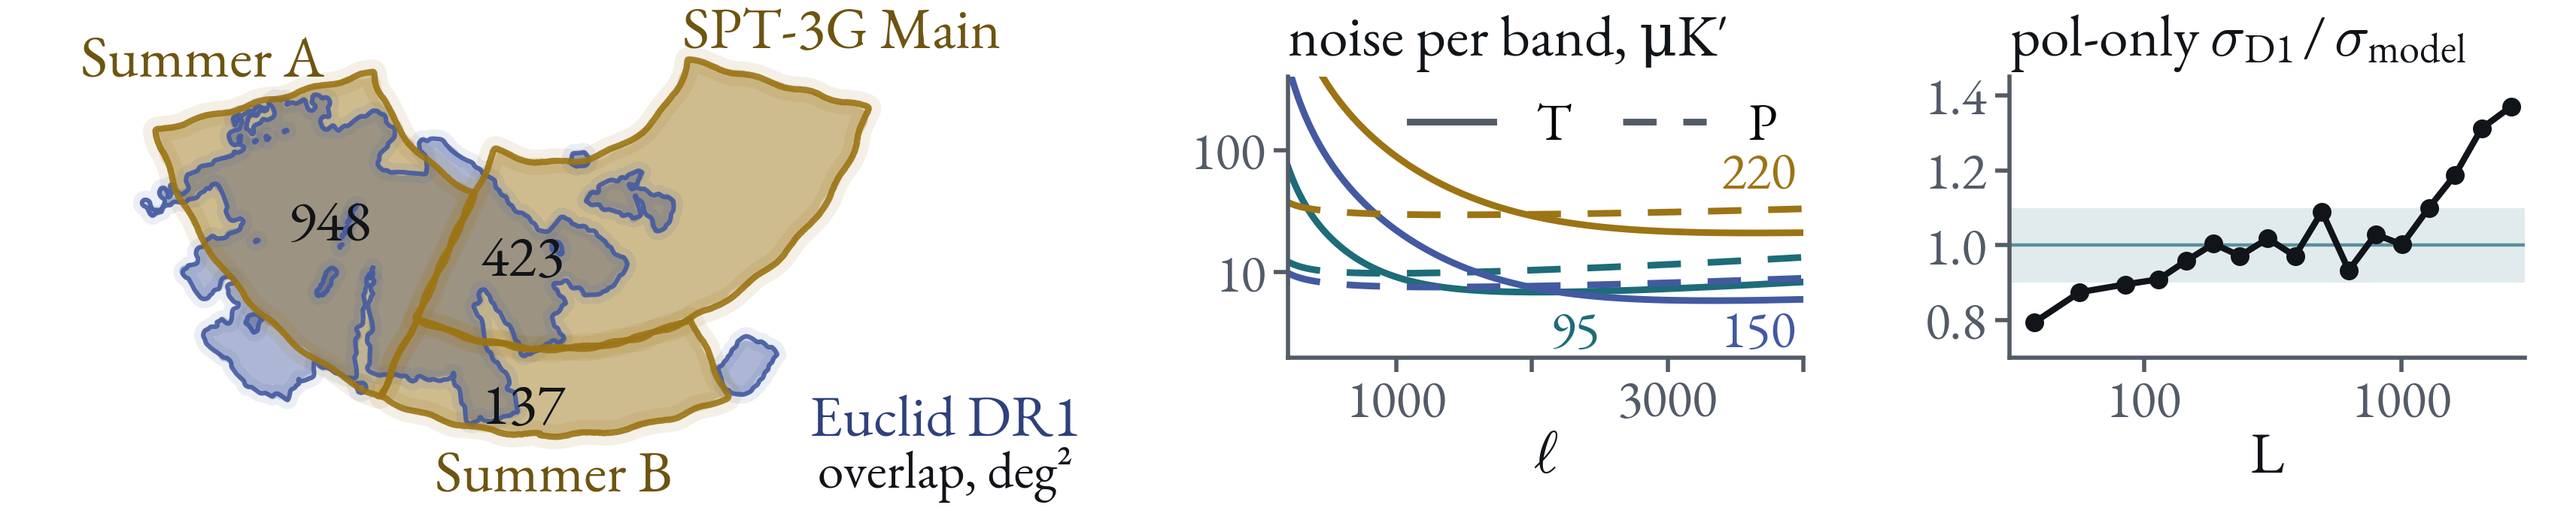
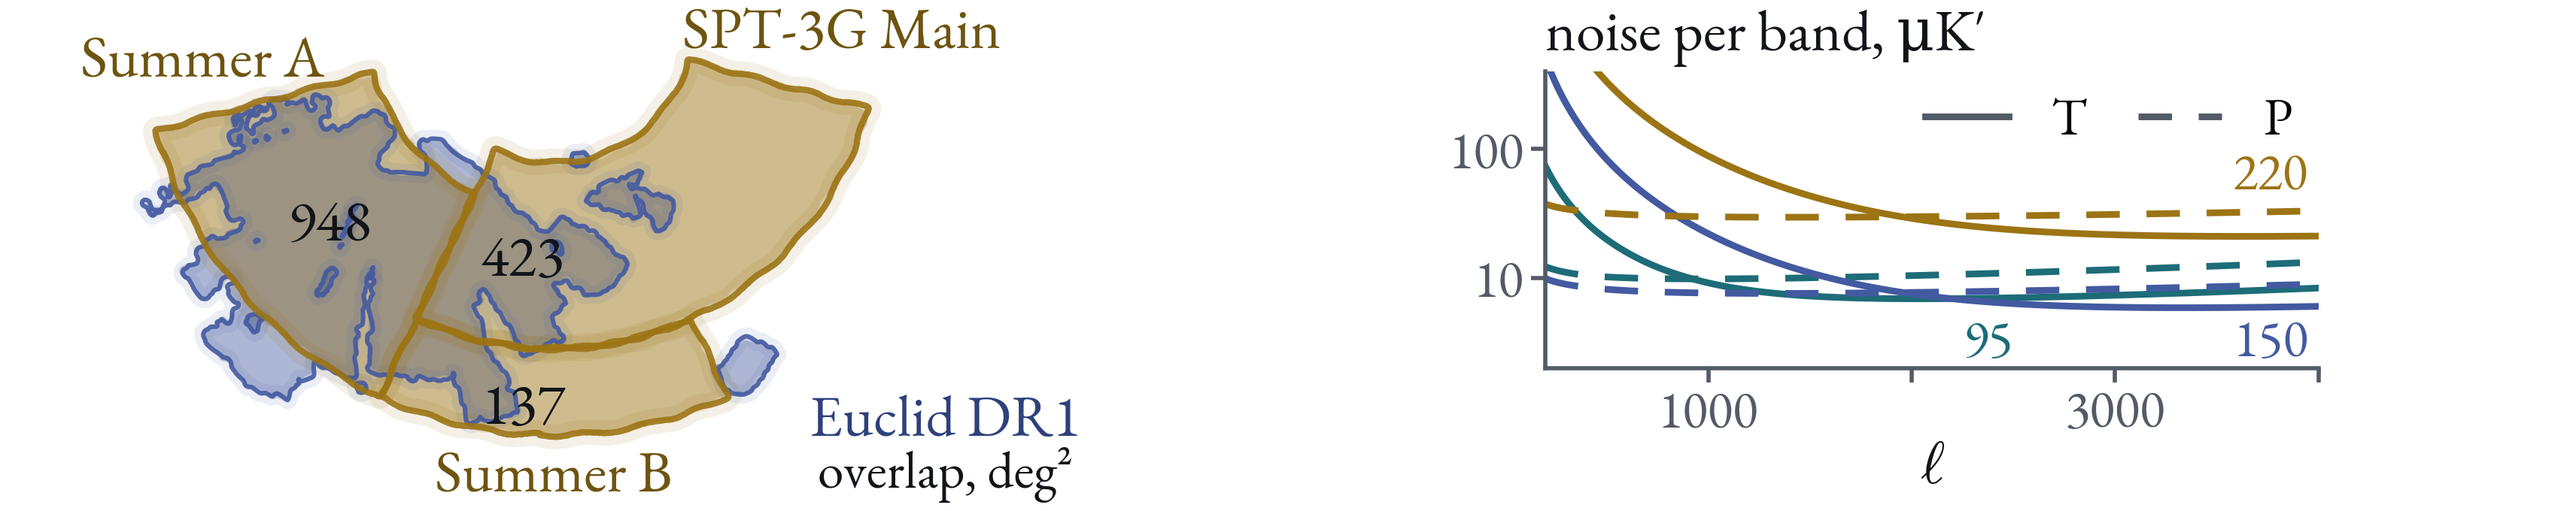
Paris SWG deck: covariance part is what the SPT analysis needs, as data products
Claude-Session: https://claude.ai/code/session_01JK7o9DgWZgiWoB9jhm8TMM

diff --git a/2611_Paris_SWG/slides/cov-spt-public.html b/2611_Paris_SWG/slides/cov-spt-public.html
@@ -1,30 +1,31 @@
 <section data-layout="figure-text" data-stack>
-  <h2>SPT-like mocks can start from public inputs</h2>
+  <h2>SPT-like mocks: inputs from public sources</h2>
   <figure>
-    <img src="images/paris26_cov_spt_public_sketch.png" alt="Sketch of the SPT-3G Main, Summer A and Summer B footprints over the Euclid DR1 footprint with overlap areas, the per-band noise curves, and the ratio of public D1 lensing errors to the model's">
+    <img src="images/paris26_cov_spt_public_sketch.png" alt="The SPT-3G Main, Summer A and Summer B footprints over the Euclid DR1 footprint with overlap areas in square degrees, and the noise curve of each band in temperature and polarization">
     <span class="source">Leonardo: /leonardo_work/EUHPC_E07_074/cmbx/inputs/spt/public_covariance_package (README.md)</span>
   </figure>
   <div class="text">
   <ul>
-    <li>Masks: SPT-3G Main, Summer A and B, $N_\mathrm{side} = 2048$</li>
-    <li>Noise per band, temperature and polarization, each entry cited</li>
-    <li>Public D1 release: survey masks, 500 noise maps per band</li>
-    <li>Check: pol-only $N_L^{\kappa\kappa}$ within 10 % of the public D1 errors</li>
+    <li>A generic quadratic estimator, run by the covariance team</li>
+    <li>Masks: SPT-3G Main, Summer A and B</li>
+    <li>Noise levels per band, temperature and polarization</li>
+    <li>Noise maps: 500 per band in the public D1 release</li>
+    <li>Unconstrained, so any number can be made</li>
   </ul>
   </div>
   <aside class="notes">
     <ul class="skim">
       <li><strong>What it is for</strong> — a generic quadratic-estimator κ reconstruction on simulated CMB with SPT-3G's footprint and noise, so that covariance mocks for the κ blocks can start before SPT's own reconstructions can be shared. Every number comes from a public paper or data release; nothing derives from internal SPT products.</li>
       <li><strong>Masks</strong> — RA/Dec boxes from the published field boundaries, HEALPix $N_\mathrm{side} = 2048$, RING, equatorial, binary and apodized. Overlap with the observed DR1 footprint: Main 423 deg², Summer A 948 deg², Summer B 137 deg²; Summer C has none and is left out.</li>
-      <li><strong>Noise</strong> — white level, atmospheric knee and slope, and beam per band (95, 150, 220 GHz), with beam-deconvolved noise curves and a model reconstruction noise. Summer polarization noise and Summer beams are proxies, labelled as such in the table.</li>
+      <li><strong>Noise</strong> — white level, atmospheric knee and slope, and beam per band (95, 150, 220 GHz), with beam-deconvolved noise curves. Summer polarization noise and Summer beams are proxies, labelled as such in the table.</li>
       <li><strong>Public D1 release</strong> — the SPT-3G D1 Main-field release has the survey pixel masks and 500 sign-flip noise realizations per band; for Main-field mocks these are better than the package's boxes and noise model.</li>
-      <li><strong>Check</strong> — a flat-sky quadratic estimator on the noise model reproduces the public D1 polarization-only lensing bandpower errors within 10 % for $150 &lt; L &lt; 1300$. The temperature-plus-polarization estimator also needs temperature foreground power (a Poisson term closes a gap of up to 2× at high $L$).</li>
+      <li><strong>Any number</strong> — these mocks are not conditioned on an experiment's own simulated reconstructions, so their number is not limited by how many simulations SPT has.</li>
     </ul>
     <details><summary>How this differs from constrained realizations</summary>
     <p>Constrained realizations on SPT's own lensing reconstructions of its simulations carry the real estimator, filtering and masks, and there are as many as SPT has simulations. The public route needs none of SPT's products and is not limited in number.</p>
     </details>
     <details><summary>The sketch</summary>
-    <p>Drawn from the package's own files by make_cov_figures.py in the deck directory, in a hand-drawn style. <strong>Left:</strong> the Main, Summer A and Summer B box masks (ochre) over the observed Euclid DR1 wide footprint (blue: the union of DR1_R1 and DR1_R2 MER VIS tiles, 2341 deg², not an analysis mask), in an equal-area view about the south celestial pole; outlines are lightly smoothed, and the numbers are each field's overlap in deg², recomputed from the same maps. <strong>Middle:</strong> the beam-deconvolved noise model of the D1 Main field per band, temperature solid and polarization dashed. <strong>Right:</strong> public D1 polarization-only lensing bandpower errors over the errors the noise model predicts; the band is ±10 %.</p>
+    <p>Drawn from the package's own files by make_cov_figures.py in the deck directory, in a hand-drawn style. <strong>Left:</strong> the Main, Summer A and Summer B box masks (ochre) over the observed Euclid DR1 wide footprint (blue: the union of DR1_R1 and DR1_R2 MER VIS tiles, 2341 deg², not an analysis mask), in an equal-area view about the south celestial pole; outlines are lightly smoothed, and the numbers are each field's overlap in deg², recomputed from the same maps. <strong>Right:</strong> the beam-deconvolved noise model of the D1 Main field per band, temperature solid and polarization dashed.</p>
     </details>
     <details><summary>Sources</summary>
     <p>SPT-3G D1 maps release (Quan et al. 2026, arXiv:2603.20163); Camphuis et al. 2025 (arXiv:2506.20707) for noise levels; SPT-3G D1 quadratic-estimator lensing (arXiv:2608.31136) and its public likelihood data; the Summer two-year temperature lensing paper (arXiv:2607.05784); Prabhu et al. 2024 (arXiv:2403.17925) for the noise knees.</p>

diff --git a/2611_Paris_SWG/slides/cov-spt-constrained.html b/2611_Paris_SWG/slides/cov-spt-constrained.html
@@ -1,0 +1,20 @@
+<section data-layout="points">
+  <h2>Constrained realizations on SPT's simulations</h2>
+  <ul>
+    <li>Inputs: the same footprints, and SPT's κ reconstructions of its simulations</li>
+    <li>SPT has 350–400 simulations, winter and summer fields</li>
+    <li>Sharing them waits on Euclid status for SPT's external collaborators</li>
+  </ul>
+  <p><strong class="accent">Output wanted:</strong> covariances for the κ crosses, calibrated the same way as the ACT and Planck ones</p>
+  <aside class="notes">
+    <ul class="skim">
+      <li><strong>What it is</strong> — mock Euclid fields conditioned on the κ of each SPT simulation, paired with SPT's own lensing reconstruction of that simulation, so the mocks carry SPT's real estimator, filtering, masks and reconstruction noise.</li>
+      <li><strong>Inputs</strong> — the footprints of the previous slide, and SPT's lensing reconstructions of its 350–400 simulations for the winter (Main) and summer fields.</li>
+      <li><strong>Status</strong> — SPT cannot share these products until its external collaborators have Euclid status; the request was circulated on 9 November 2026.</li>
+      <li><strong>Output</strong> — covariances for κ × shear and κ × positions with SPT-3G, calibrated in the same way as those built on the ACT and Planck simulations, where about 400 constrained realizations exist.</li>
+    </ul>
+    <details><summary>From the CMBX telecon of 5 November 2026</summary>
+    <p>About 400 realizations were judged too noisy to invert directly. The candidates raised there were shrinkage toward an analytic target (which lacks the reconstruction noise), a jackknife (biased even with delete-two, as found in DES), and a much larger set of own simulations with reconstruction run on each. JC-1's view at that telecon: the 6×2pt and covariance groups should run synthetic chains together.</p>
+    </details>
+  </aside>
+</section>

diff --git a/2611_Paris_SWG/slides/index.html b/2611_Paris_SWG/slides/index.html
@@ -2,13 +2,13 @@
   <h2>Index</h2>
   <table class="large">
     <tr><th>part</th><th>session</th><th>when</th></tr>
-    <tr><td><a href="#/covariance">Covariance needs</a></td><td>Simulations</td><td>Wed 18, 09:30</td></tr>
+    <tr><td><a href="#/covariance">SPT covariance</a></td><td>Simulations</td><td>Wed 18, 09:30</td></tr>
     <tr><td><a href="#/blinding">Blinding</a></td><td>Blinding (chair)</td><td>Wed 18, 11:30</td></tr>
     <tr><td><a href="#/cloe">CLOE vs dr1_cmbx</a></td><td>Likelihood</td><td>Wed 18, 14:00</td></tr>
   </table>
   <aside class="notes">
     <ul class="skim">
-      <li><strong>Covariance needs</strong> — what the CMBX 6×2pt analysis uses now, which covariance blocks it needs from whom, and the open choices. Asked for by Pauline Vielzeuf; placed here in the simulations session she chairs.</li>
+      <li><strong>SPT covariance</strong> — what the SPT × Euclid 6×2pt analysis needs from the covariance effort, as data products: inputs for SPT-like mocks, constrained realizations on SPT's simulations, and the output wanted. Asked for by Pauline Vielzeuf, for the simulations session she chairs.</li>
       <li><strong>Blinding</strong> — opening slides for the session Cail chairs: how each Euclid group blinds DR1, the size of the CMBX blind, whether to blind κκ, how to compare blinded vectors across groups, and the questions for the room.</li>
       <li><strong>CLOE vs dr1_cmbx</strong> — the same TR1 chains run with CLOE and with the dr1_cmbx exact likelihood: posteriors, bias against the mock truth, and cost. Asked for by Raphael Kou for the likelihood session.</li>
     </ul>

diff --git a/2611_Paris_SWG/slides/covariance.html b/2611_Paris_SWG/slides/covariance.html
@@ -1,9 +1,10 @@
 <section data-layout="section">
-  <h2>Covariance needs</h2>
-  <p>What CMBX uses now and what it needs from the simulations effort</p>
+  <h2>SPT covariance</h2>
+  <p>1. SPT-constrained mocks for accuracy<br>2. SPT-like mocks for as many samples as needed<br>3. The two combined, with control variates (CARPool-type)</p>
   <aside class="notes">
     <ul class="skim">
-      <li><strong>Scope</strong> — the covariance of the CMBX 6×2pt data vector (3×2pt plus κ × shear, κ × positions and κκ), for DR1.</li>
+      <li><strong>Scope</strong> — what the SPT × Euclid 6×2pt analysis needs from the covariance effort (Pauline Vielzeuf, Davide Luchina) for its κ blocks, as data products: what goes in and what should come out.</li>
+      <li><strong>Plan</strong> — constrained realizations on SPT's own lensing reconstructions carry the real estimator and noise but are limited to SPT's 350–400 simulations; SPT-like mocks with a generic quadratic estimator can be made in any number. The idea is to use the first for accuracy and the second for sample count, combining them with a control-variate (CARPool-type) estimator. A plan to discuss with the covariance team, not a settled method.</li>
       <li><strong>Timeline</strong> — the κκ likelihood and covariance design is to be decided by the end of November; everything running by the end of February; blinded data early April 2027 (CMBX telecons, 5 and 12 November 2026).</li>
     </ul>
   </aside>

diff --git a/2611_Paris_SWG/slides/title.html b/2611_Paris_SWG/slides/title.html
@@ -1,12 +1,12 @@
 <section data-layout="title">
-  <h1>Blinding, CLOE and covariance</h1>
+  <h1>SPT covariance, blinding and CLOE</h1>
   <p class="subtitle">Material for the CMBX SWG meeting</p>
   <p class="byline">Cail Daley</p>
   <p class="venue">Euclid CMBX SWG meeting, Paris</p>
   <p class="date">17–18 November 2026</p>
   <aside class="notes">
     <ul class="skim">
-      <li><strong>One deck, several slots</strong> — the blinding session (chair's opening), the CLOE vs dr1_cmbx comparison for the likelihood session, and what CMBX needs for covariances, for the simulations session. The next slide is the index.</li>
+      <li><strong>One deck, three slots</strong> — what the SPT × Euclid analysis needs for its covariance (simulations session), the opening of the blinding session, and the CLOE vs dr1_cmbx comparison (likelihood session). The next slide is the index.</li>
       <li><strong>Sources</strong> — every number is cited in the Sources &amp; notes card of the slide that shows it. Material about other groups was surveyed on 12 November 2026.</li>
     </ul>
   </aside>

diff --git a/2611_Paris_SWG/make_cov_figures.py b/2611_Paris_SWG/make_cov_figures.py
@@ -189,7 +189,7 @@ def main():
     # the two charts are drawn clean; only the footprint map is sketched
     plt.rcParams["path.sketch"] = None
     # noise per band
-    ax = fig.add_axes([0.50, 0.30, 0.2, 0.55])
+    ax = fig.add_axes([0.60, 0.28, 0.30, 0.58])
     noise(ax)
     ax.set_xticks([1000, 2000, 3000, 4000], ["1000", "", "3000", ""])
     ax.set_yticks([10, 100], ["10", "100"])
@@ -203,16 +203,6 @@ def main():
     ax.text(3950, 60, "220", color=OCHRE, fontsize=SMALL, ha="right", va="center")
     ax.text(3950, 3.0, "150", color=ACCENT, fontsize=SMALL, ha="right", va="center")
     ax.text(2500, 3.0, "95", color=TEAL, fontsize=SMALL, ha="right", va="center")
-
-    # reconstruction-noise check
-    ax = fig.add_axes([0.78, 0.30, 0.2, 0.55])
-    check(ax)
-    ax.set_xticks([100, 1000], ["100", "1000"])
-    ax.set_yticks([0.8, 1.0, 1.2, 1.4])
-    ax.minorticks_off()
-    ax.set_xlabel("$L$", labelpad=0)
-    ax.set_title("pol-only $\\sigma_\\mathrm{D1}\\,/\\,\\sigma_\\mathrm{model}$", fontsize=TXT, color=INK,
-                 loc="left", pad=10)
 
     out = os.path.join(IMG, "paris26_cov_spt_public_sketch.png")
     fig.savefig(out, dpi=DPI)
